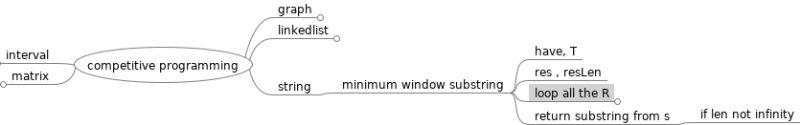
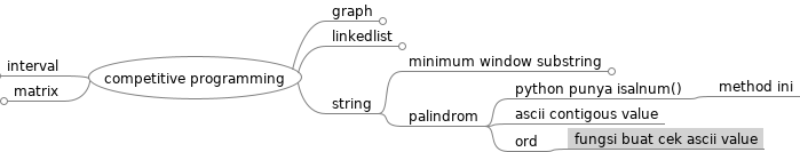
update lecture notes

diff --git a/competitive programming.mm b/competitive programming.mm
@@ -107,7 +107,7 @@
 </node>
 </node>
 <node CREATED="1646401636405" ID="ID_548429591" MODIFIED="1646401638199" POSITION="right" TEXT="string">
-<node CREATED="1646401638604" ID="ID_225713361" MODIFIED="1646401655182" TEXT="minimum window substring">
+<node CREATED="1646401638604" FOLDED="true" ID="ID_225713361" MODIFIED="1646436586306" TEXT="minimum window substring">
 <node CREATED="1646401656419" ID="ID_571313667" MODIFIED="1646401664103" TEXT="have, T"/>
 <node CREATED="1646401752332" ID="ID_789981627" MODIFIED="1646401756568" TEXT="res , resLen"/>
 <node CREATED="1646401757002" FOLDED="true" ID="ID_1736112015" MODIFIED="1646403492620" TEXT="loop all the R">
@@ -121,6 +121,15 @@
 </node>
 <node CREATED="1646401821091" ID="ID_255295341" MODIFIED="1646401826568" TEXT="return substring from s">
 <node CREATED="1646401827447" ID="ID_1228084427" MODIFIED="1646401832156" TEXT="if len not infinity"/>
+</node>
+</node>
+<node CREATED="1646436587959" ID="ID_1805015709" MODIFIED="1646436590712" TEXT="palindrom">
+<node CREATED="1646436590953" ID="ID_1557440313" MODIFIED="1646436608037" TEXT="python punya isalnum()">
+<node CREATED="1646436610003" ID="ID_1199732038" MODIFIED="1646436612752" TEXT="method ini"/>
+</node>
+<node CREATED="1646436732639" ID="ID_391900404" MODIFIED="1646436739248" TEXT="ascii contigous value"/>
+<node CREATED="1646443238951" ID="ID_1139582682" MODIFIED="1646443241471" TEXT="ord">
+<node CREATED="1646443242109" ID="ID_23393651" MODIFIED="1646443248805" TEXT="fungsi buat cek ascii value"/>
 </node>
 </node>
 </node>

diff --git a/german vocab training.mm b/german vocab training.mm
@@ -79,5 +79,17 @@
 <node CREATED="1646399832636" ID="ID_1882035718" MODIFIED="1646399837587" POSITION="left" TEXT="er.kla.ren">
 <node CREATED="1646399837820" ID="ID_1867636089" MODIFIED="1646399842020" TEXT="menjelaskan"/>
 </node>
+<node CREATED="1646464212765" ID="ID_1980380878" MODIFIED="1646464219053" POSITION="right" TEXT="ver.pack.en">
+<node CREATED="1646464219272" ID="ID_928458029" MODIFIED="1646464220895" TEXT="to pack"/>
+</node>
+<node CREATED="1646464234030" ID="ID_1980138188" MODIFIED="1646464243939" POSITION="left" TEXT="inte.re.ss.ieren">
+<node CREATED="1646464244199" ID="ID_221338195" MODIFIED="1646464249077" TEXT="menarik"/>
+</node>
+<node CREATED="1646464268248" ID="ID_1978498448" MODIFIED="1646464273143" POSITION="right" TEXT="die mun.ze">
+<node CREATED="1646464273359" ID="ID_858031976" MODIFIED="1646464274758" TEXT="koin"/>
+</node>
+<node CREATED="1646464396945" ID="ID_831646321" MODIFIED="1646464407031" POSITION="left" TEXT="das Pro.gra.mm">
+<node CREATED="1646464407350" ID="ID_514245432" MODIFIED="1646464413086" TEXT="the program"/>
+</node>
 </node>
 </map>
